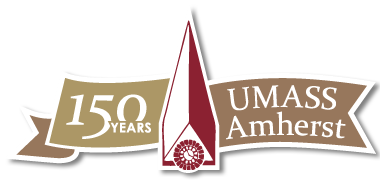
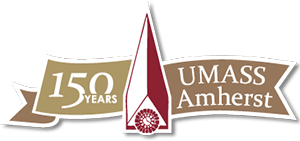
change the UI

Changed region(s): [[0.0, 0.0284, 1.0, 0.9645]]

diff --git a/templates/accounts/login.html b/templates/accounts/login.html
@@ -6,7 +6,7 @@
 <style type="text/css">
     .login-container
     {
-        max-width: 400px;
+        max-width: 600px;
     }
     
     .learn-more
@@ -54,15 +54,13 @@
 <div class="header center">
     <a href="/">
         <img src="/static/imgs/umass_150.png" alt="ChoiceNet Shopper"
-             height="180" width="380" />
+             height="150" width="320" />
     </a>
 </div>
 
 <div class="container login-container">
     <div class="page-header">
-        <h1>Welcome to ChoiceNet Shopper! <br />
-            Please sign in ...
-        </h1>
+        <h1>Welcome to ChoiceNet Shopper! </h1>
     </div>
 
     <div class="alert alert-info" id="loggedoutNotice" style="display: none;">
@@ -79,6 +77,13 @@
         Your browser's cookie functionality is turned off.
         You must enable them in order to login.
     </div>
+
+     <div class="row center hidden-from-app" style="padding-bottom: 10px">
+        Not a ChoiceNet Shopper user?
+        <a href="{% url "sign_up" %}" class="learn-more">
+            Sign up now
+        </a>
+    </div>
     
     <form action="{% url "login" %}?next={{ redirect_to }}" method="POST">
         <div class="well">
@@ -87,11 +92,11 @@
             {{ form }}
 
             <div class="row-fluid">
-                <div class="span7">
+                <div class="span6">
                     <input type="submit" value="Sign in"
                            class="btn btn-primary" />
                 </div>
-                <div class="span7 pull-right" style="text-align: right;">
+                <div class="span6 pull-right" style="text-align: right;">
                     <a href="{% url "login" %}" class="btn btn-link">
                         Can't access your account?
                     </a>
@@ -99,13 +104,6 @@
             </div>
         </div>
     </form>
-    
-    <div class="row center hidden-from-app" style="padding-bottom: 30px">
-        Not a ChoiceNet Shopper user?<br />
-        <a href="/sign_up/"
-           class="btn btn-success learn-more">
-            Sign up now
-        </a>
-    </div>
+
 </div>
 {% endblock %}

diff --git a/templates/accounts/sign_up.html b/templates/accounts/sign_up.html
@@ -6,7 +6,7 @@
 <style type="text/css">
     .login-container
     {
-        max-width: 400px;
+        max-width: 350px;
     }
 
 </style>
@@ -28,6 +28,13 @@
             Please correct the error{{ form.errors|pluralize }} below.
         </div>
     {% endif %}
+
+     <div class="row center hidden-from-app" style="padding-bottom: 10px">
+        Already a ChoiceNet user?
+        <a href="{% url "login" %}" class="learn-more">
+            Login now
+        </a>
+    </div>
 
     <form action="{% url "sign_up" %}?next={{ redirect_to }}" method="POST">
 

diff --git a/templates/accounts/settings.html b/templates/accounts/settings.html
@@ -6,7 +6,7 @@
 <style type="text/css">
     .login-container
     {
-        max-width: 400px;
+        max-width: 350px;
     }
 
 </style>
